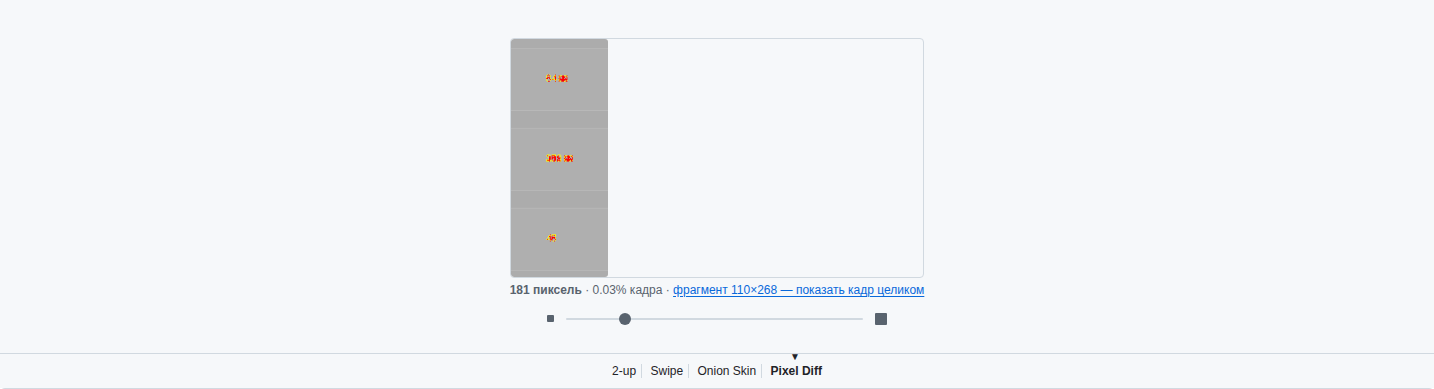
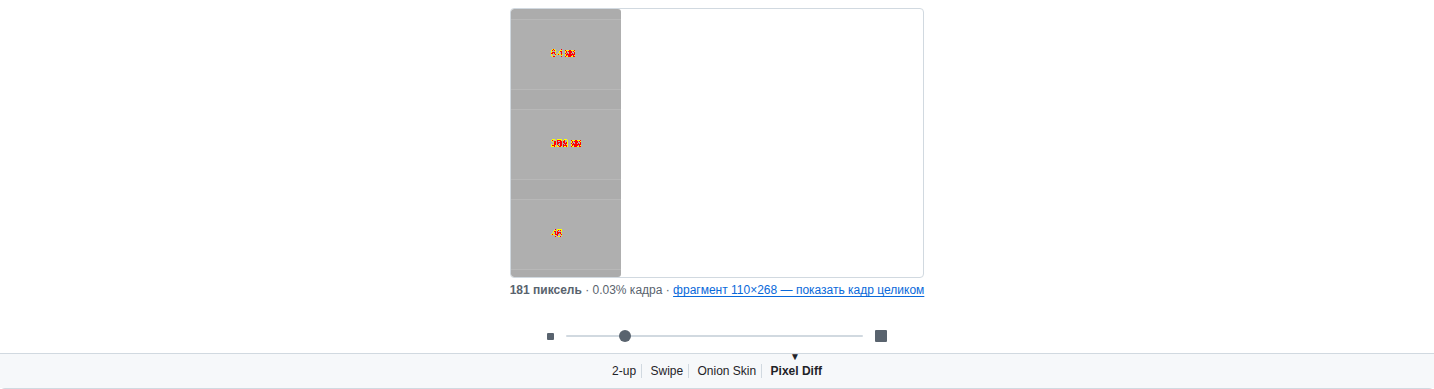
Не менять высоту фрейма с картинками
Высоту iframe GitHub меряет по содержимому документа внутри и сообщает наружу.
Наш блок лежал в этом потоке и раздувал документ — в родных режимах снизу
оставалась пустота. Теперь он вынут из потока (position: fixed) и занимает
область фрейма поверх, а место под панелью режимов резервируется по её
измеренной высоте.

Обратная сторона той же меры: родные режимы прячутся видимостью, а не
display: none. Иначе, пока показан наш, документ оказывается пустым, GitHub
меряет его и схлопывает панель до сотни пикселей.

Проверено на всех переходах: 388 → 388 → 388, и назад возвращается ровно один
родной режим.

Changed region(s): [[0.3375, 0.0, 0.4603, 0.7095], [0.3682, 0.8021, 0.6444, 0.8946]]

diff --git a/src/content/frame.css b/src/content/frame.css
@@ -1,23 +1,34 @@
 /* Оформление наследует панель GitHub: свои цвета задаём только там,
    где родных классов нет. */
-/* Высоту фрейма задаёт GitHub под свой контент, и она не меняется под наш.
-   Поэтому раскладка вписывается в неё: картинка занимает остаток места,
-   а подпись и ползунок всегда остаются на виду. Высоту контейнеру не задаём:
-   он начинается ниже верха фрейма, и 100vh увели бы низ за край. */
+/* Высоту фрейма GitHub меряет по своему содержимому и сообщает наружу.
+   Поэтому наш блок вынут из потока: иначе он раздувает документ, iframe
+   растягивается под него и в родных режимах снизу остаётся пустота.
+   Заодно у контейнера появляется определённая высота — по ней вписывается
+   картинка, а подпись с ползунком всегда остаются на виду. */
 .ghpd-view {
+  position: fixed;
+  top: 0;
+  right: 0;
+  left: 0;
+  bottom: var(--ghpd-bar-height, 40px);
   display: flex;
   flex-direction: column;
   align-items: center;
+  justify-content: center;
   gap: 8px;
   padding: 8px 12px;
   box-sizing: border-box;
+  overflow: hidden;
+  background: var(--bgColor-default, #ffffff);
 }
 
 .ghpd-view[hidden] { display: none; }
 
-/* Пока показан наш режим, родные спрятаны — но их inline-стили не тронуты,
-   поэтому GitHub сам вернёт нужный, когда переключатся обратно. */
-.ghpd-active .view:not(.ghpd-view) { display: none !important; }
+/* Пока показан наш режим, родные спрятаны — но остаются в потоке: высоту
+   фрейма GitHub меряет по ним и сообщает наружу, а display: none заставил бы
+   его схлопнуть панель. Их inline-стили при этом не тронуты, поэтому GitHub
+   сам вернёт нужный режим, когда переключатся обратно. */
+.ghpd-active .view:not(.ghpd-view) { visibility: hidden !important; }
 
 .ghpd-shell {
   display: flex;
@@ -39,14 +50,11 @@
   border-radius: 4px;
 }
 
-/* Кадр вписывается целиком: увеличивать его сверх натурального размера незачем.
-   Ограничение задано в единицах окна, а не процентах: процент от контейнера
-   с автоматической высотой браузер не разрешает и попросту игнорирует.
-   Вычет — место под подпись, ползунок и отступы. */
+/* Кадр вписывается целиком: увеличивать его сверх натурального размера незачем. */
 .ghpd-canvas {
   display: block;
   max-width: 100%;
-  max-height: calc(100vh - 150px);
+  max-height: 100%;
   object-fit: contain;
 }
 

diff --git a/src/content/frame.js b/src/content/frame.js
@@ -220,8 +220,16 @@
     if (!modes || !pair || document.querySelector('.ghpd-view')) return;
 
     const panel = build(pair, modes);
-    const container = document.querySelector('.two-up.view')?.parentElement || document.body;
-    container.append(panel.element);
+    document.body.append(panel.element);
+
+    // Панель режимов остаётся видимой: под неё оставляем место.
+    const bar = document.querySelector('.js-render-bar') || modes.parentElement;
+    const reserveForBar = () => {
+      const height = Math.ceil(bar?.getBoundingClientRect().height || 40);
+      document.documentElement.style.setProperty('--ghpd-bar-height', `${height}px`);
+    };
+    reserveForBar();
+    addEventListener('resize', reserveForBar);
 
     const label = el('label', 'js-view-mode-item ghpd-mode-item');
     const input = el('input');

diff --git a/tests/live.spec.js b/tests/live.spec.js
@@ -29,10 +29,11 @@ function readState() {
     canvas: canvas ? `${canvas.width}x${canvas.height}` : null,
     viewHidden: view ? view.hidden : null,
     nativeHidden: [...document.querySelectorAll('.view:not(.ghpd-view)')]
-      .every((v) => getComputedStyle(v).display === 'none'),
+      .every((v) => getComputedStyle(v).visibility === 'hidden'),
     // Родных режимов одновременно виден ровно один — тот, что выбран.
     nativeVisible: [...document.querySelectorAll('.view:not(.ghpd-view)')]
-      .filter((v) => getComputedStyle(v).display !== 'none').length,
+      .filter((v) => getComputedStyle(v).display !== 'none'
+        && getComputedStyle(v).visibility !== 'hidden').length,
     slider: !!document.querySelector('.ghpd-controls .ghpd-track .ghpd-dragger'),
   };
 }
